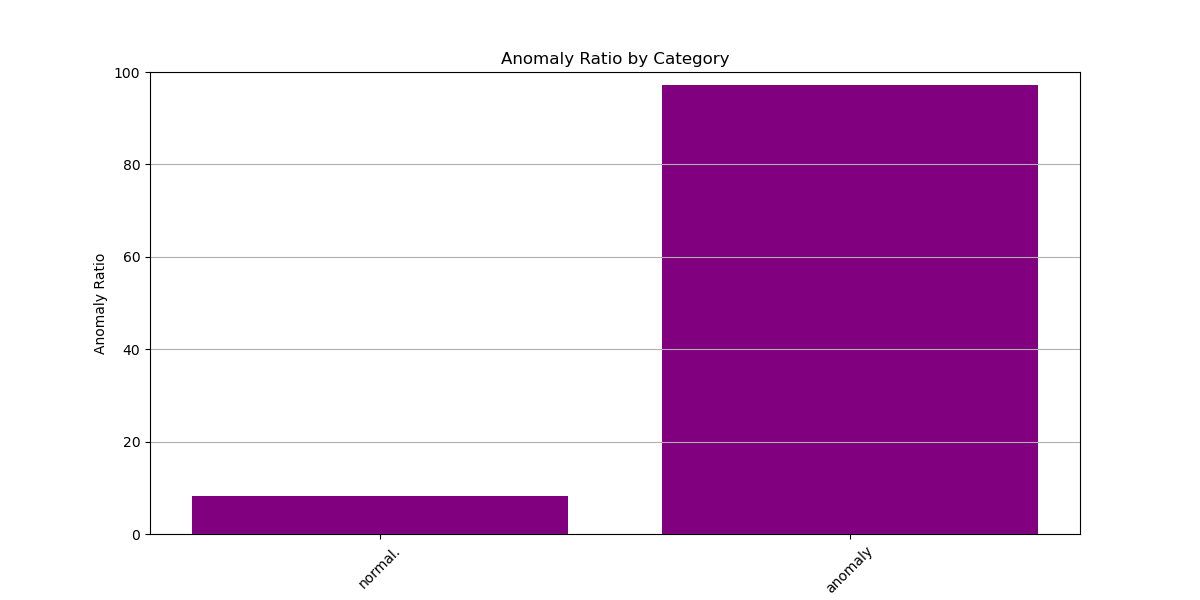
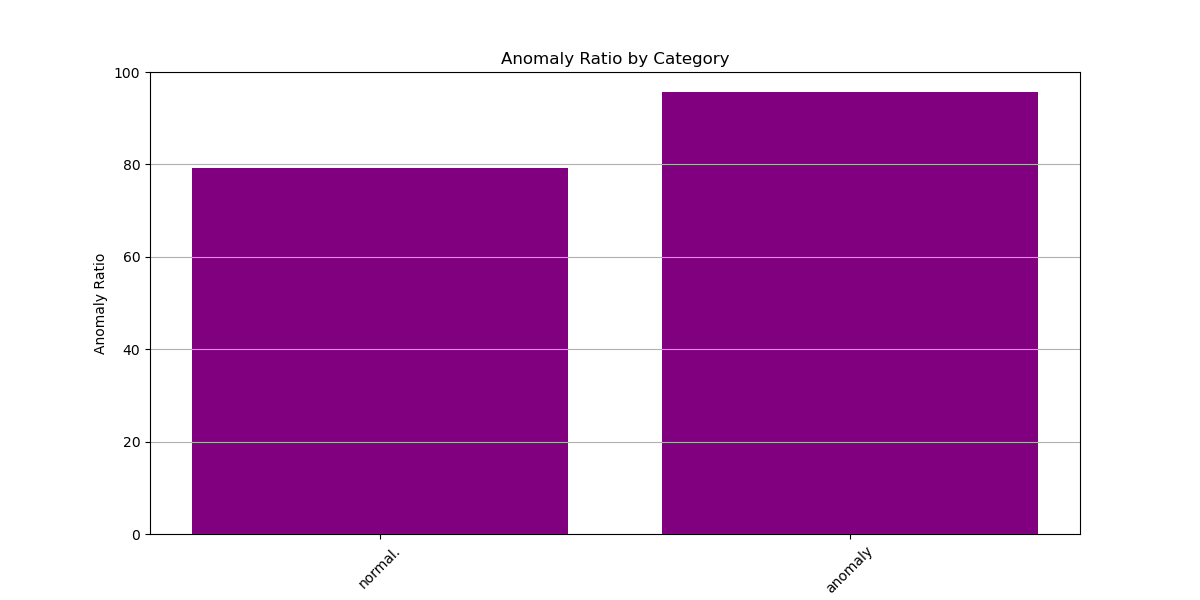
hcluster res + debut meanshift res

Changed region(s): [[0.1542, 0.27, 0.4933, 0.84], [0.555, 0.12, 0.8633, 0.18]]

diff --git a/src/main_dbscan.py b/src/main_dbscan.py
@@ -33,7 +33,7 @@ def main():
 
     parser = Parser(PATH_SAVE,LOG_PATH)
 
-    cluster_model = DBSCANModel(n_clusters=100)
+    cluster_model = DBSCANModel()
   
 
     # Load and preprocess data
@@ -64,9 +64,9 @@ def main():
     # Train the cluster model
     # data=sparse_array # remove for feature reduction
 
-    if os.path.exists(PATH_SAVE+"hcluster.pkl"):
+    if os.path.exists(PATH_SAVE+"dbscan.pkl"):
             # File exists, so load the data from the file
-            with open(PATH_SAVE+"hcluster.pkl", 'rb') as file:
+            with open(PATH_SAVE+"dbscan.pkl", 'rb') as file:
                 save = pickle.load(file)
                 cluster_model = save[0]
                 predict_labels_train = save[1]
@@ -75,7 +75,7 @@ def main():
     else:
             predict_labels_train=cluster_model.train(data_train)
             to_save = [cluster_model, predict_labels_train]
-            with open(PATH_SAVE+"hcluster.pkl", 'wb') as file:
+            with open(PATH_SAVE+"dbscan.pkl", 'wb') as file:
                 pickle.dump(to_save, file)
             print("File does not exist. Data has been saved.")
 
@@ -91,15 +91,15 @@ def main():
     print("==== Cluster label begining ====")
     cluster_label = ClusterLabel(predict_labels_train,label_train,cluster_model.n_clusters)
     cluster_label.cluster_stat()
-    predict_label_test=cluster_model.predict(data_test)
-    pl=cluster_label.get_predicted_label(predict_label_test)
-    #pl=cluster_label.get_predicted_label(predict_labels_train)
+    #predict_label_test=cluster_model.predict(data_test)
+    #pl=cluster_label.get_predicted_label(predict_label_test)
+    pl=cluster_label.get_predicted_label(predict_labels_train)
     
-    res=cluster_label.calc_stat(label_test,pl)
-    #res=cluster_label.calc_stat(label_train,pl)
+    #res=cluster_label.calc_stat(label_test,pl)
+    res=cluster_label.calc_stat(label_train,pl)
     
-    anomaly_ratio = cluster_label.calc_anomaly_ratio(label_test,pl)
-    #anomaly_ratio = cluster_label.calc_anomaly_ratio(label_train,pl)
+    #anomaly_ratio = cluster_label.calc_anomaly_ratio(label_test,pl)
+    anomaly_ratio = cluster_label.calc_anomaly_ratio(label_train,pl)
     cluster_label.plot_anomaly_ratio(anomaly_ratio)
     cluster_label.plot(res)
 

diff --git a/src/main_mainshift.py b/src/main_mainshift.py
@@ -33,11 +33,11 @@ def main():
 
     parser = Parser(PATH_SAVE,LOG_PATH)
 
-    cluster_model = HClustering(n_clusters=100)
+    cluster_model = MeanShiftModel(n_clusters=30)
   
 
     # Load and preprocess data
-    s_train,s_test=parser.split_dataset('../data/kddcup.data_10_percent',100000,0.8, encoding="freq")
+    s_train,s_test=parser.split_dataset('../data/kddcup.data_10_percent',50000,0.8, encoding="target")
 
     # test that the label are the same for train and test set.
     test_label=np.unique(s_test[1])
@@ -64,9 +64,9 @@ def main():
     # Train the cluster model
     # data=sparse_array # remove for feature reduction
 
-    if os.path.exists(PATH_SAVE+"hcluster.pkl"):
+    if os.path.exists(PATH_SAVE+"dbscan.pkl"):
             # File exists, so load the data from the file
-            with open(PATH_SAVE+"hcluster.pkl", 'rb') as file:
+            with open(PATH_SAVE+"dbscan.pkl", 'rb') as file:
                 save = pickle.load(file)
                 cluster_model = save[0]
                 predict_labels_train = save[1]
@@ -75,7 +75,7 @@ def main():
     else:
             predict_labels_train=cluster_model.train(data_train)
             to_save = [cluster_model, predict_labels_train]
-            with open(PATH_SAVE+"hcluster.pkl", 'wb') as file:
+            with open(PATH_SAVE+"dbscan.pkl", 'wb') as file:
                 pickle.dump(to_save, file)
             print("File does not exist. Data has been saved.")
 
@@ -84,12 +84,12 @@ def main():
 
     #cluster_model.evaluating_clustering_performance(data_out,predict_labels_train)
     predict_labels_train=cluster_model.model.labels_
-
+    print(np.unique(predict_labels_train))
 
     # Cluster label
 
     print("==== Cluster label begining ====")
-    cluster_label = ClusterLabel(predict_labels_train,label_train,cluster_model.n_clusters)
+    cluster_label = ClusterLabel(predict_labels_train,label_train,len(cluster_model.model.cluster_centers_))
     cluster_label.cluster_stat()
     predict_label_test=cluster_model.predict(data_test)
     pl=cluster_label.get_predicted_label(predict_label_test)

diff --git a/src/models/dbscan.py b/src/models/dbscan.py
@@ -2,7 +2,7 @@ from sklearn.cluster import DBSCAN;
 from models.cluster_model import ClusterModel;
 
 class DBSCANModel(ClusterModel):
-    def __init__(self, eps=3, **kwargs):
+    def __init__(self, eps=3, n_jobs=-1, **kwargs):
         super().__init__(**kwargs)
         self.model = DBSCAN(eps=eps, **kwargs)
 
